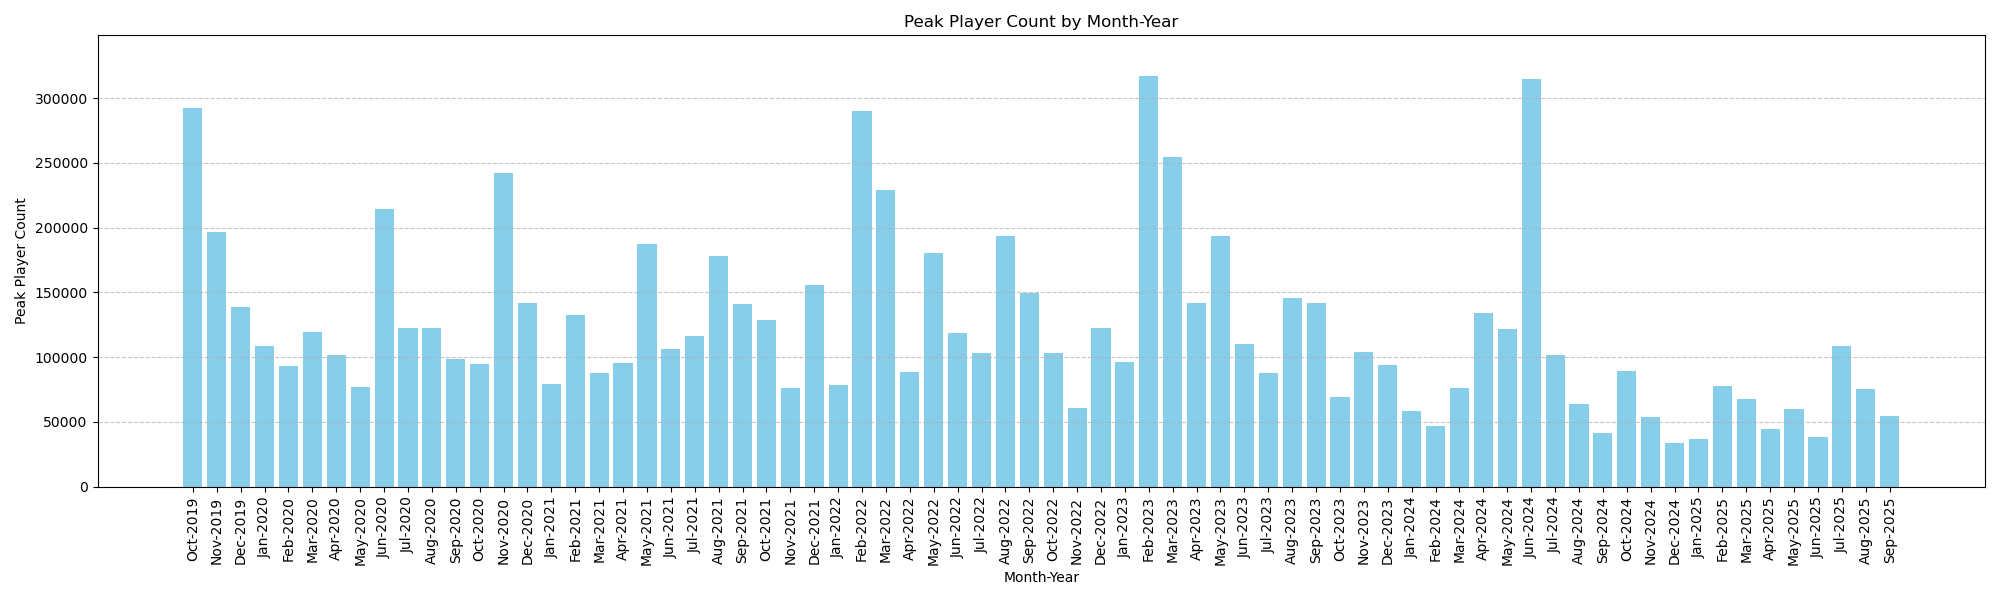
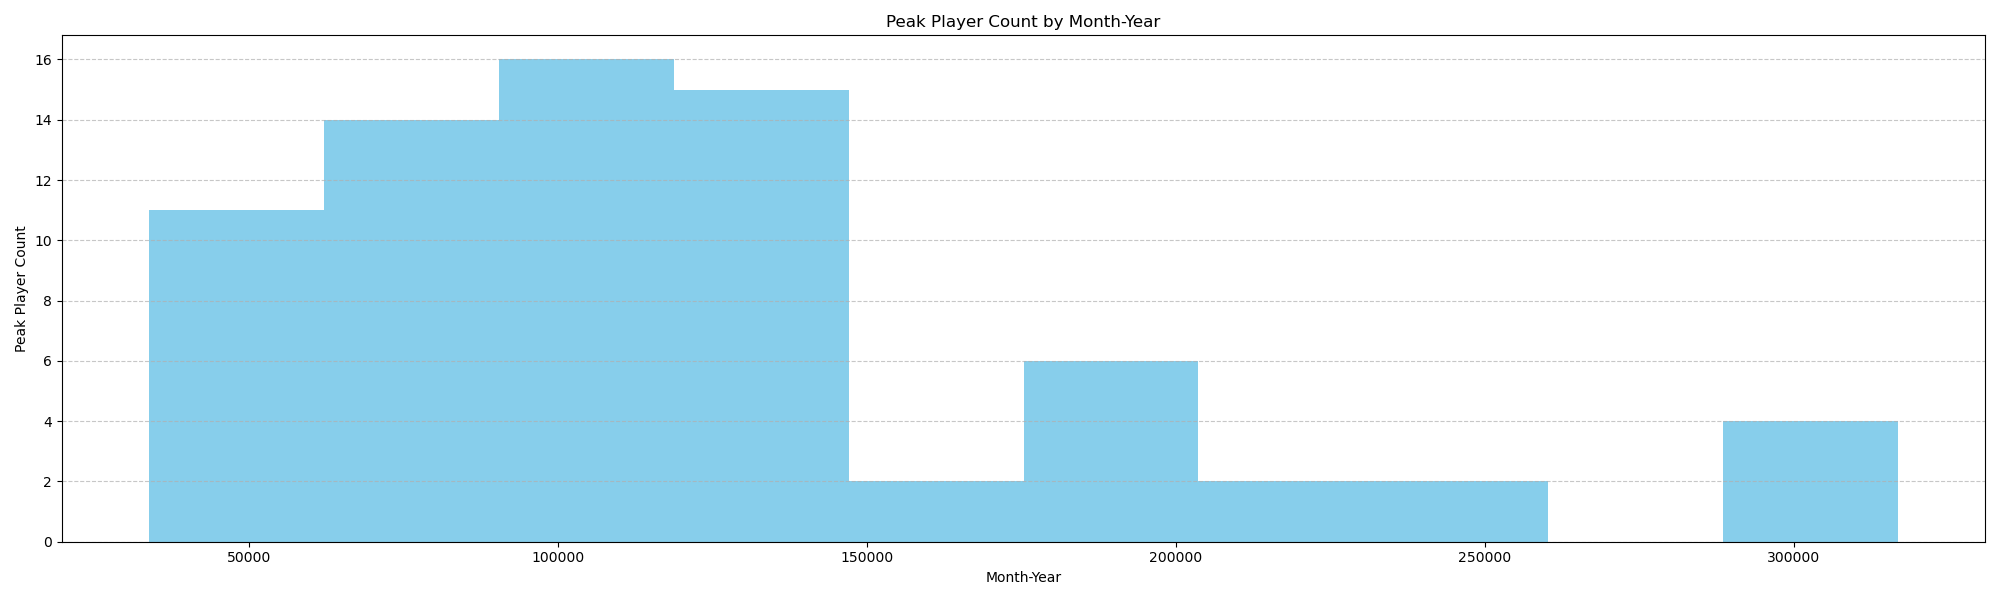
Fixed histogram method

diff --git a/method_1.py b/method_1.py
@@ -33,14 +33,12 @@ class DataVisualizer:
         os.makedirs(save_dir, exist_ok=True)#create directory if not exists
         
         plt.figure(figsize=(20, 6))
-        plt.bar(self.data['MonthYear'], self.data["Peak"], color='skyblue')
+        plt.hist(self.data['Peak'], bins=10, color='skyblue')
         
         #Graph formatting
-        plt.xticks(rotation=90)
-        plt.ylabel('Peak Player Count')
-        plt.xlabel("Month-Year")  
-        plt.title("Peak Player Count by Month-Year")
-        plt.ylim(0, max(self.data["Peak"]) * 1.1)
+        plt.ylabel('Frequency')
+        plt.xlabel("Peak Player Count")  
+        plt.title("Frequency of Player Count")
         plt.grid(True, axis='y', linestyle='--', alpha=0.7)
         plt.tight_layout()
         
